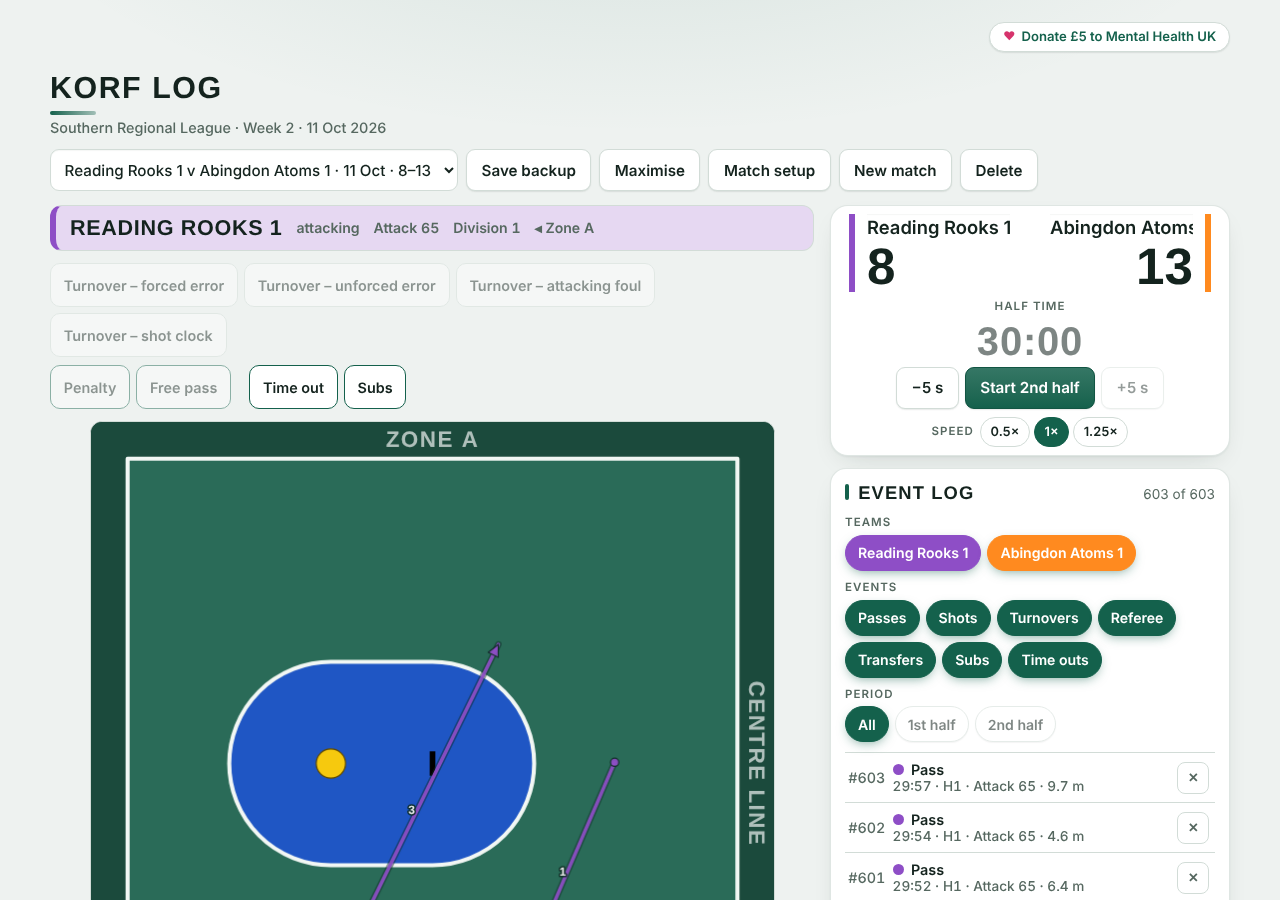
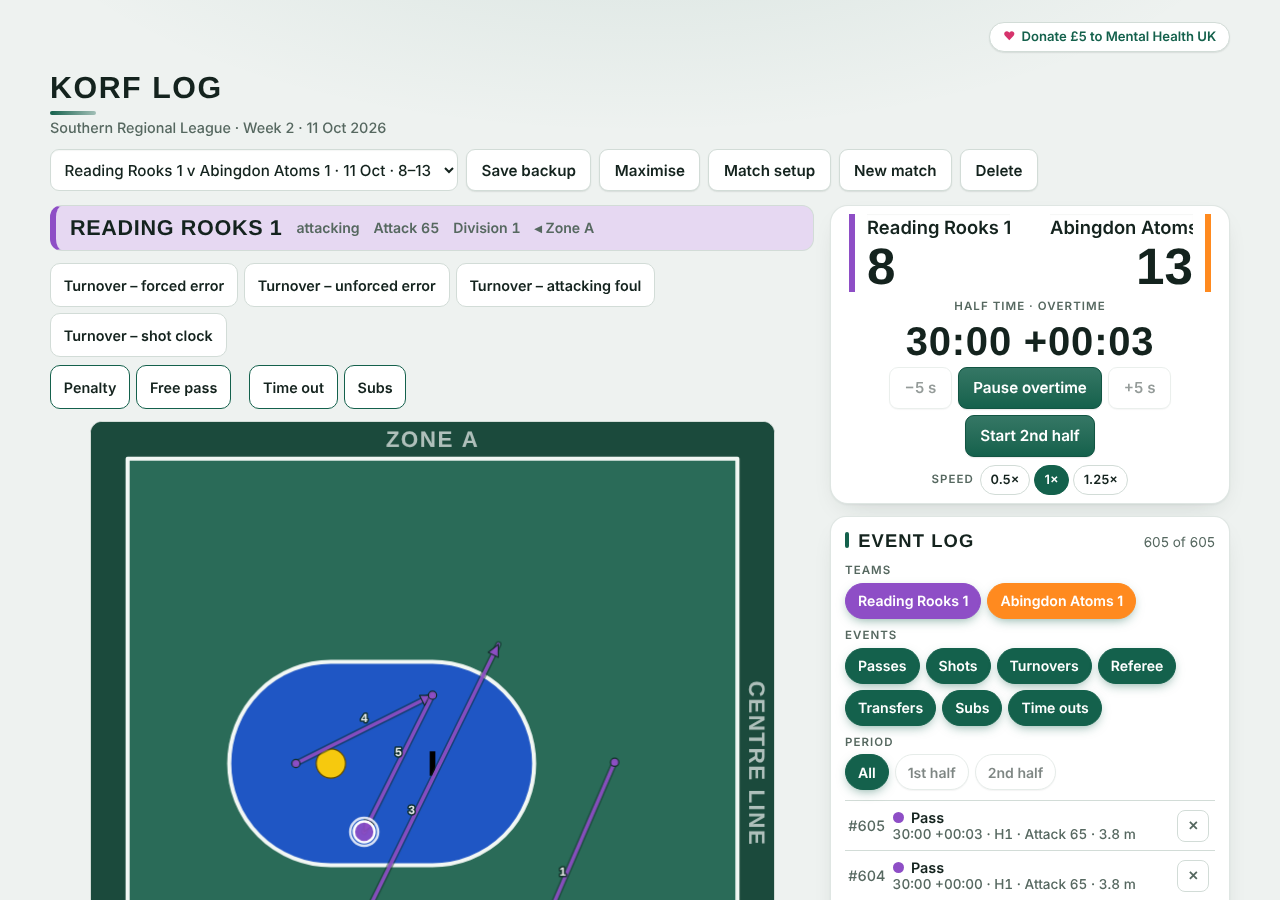
Korf Log: keep tracking at half/full time with an overtime stopwatch (30:00 +mm:ss)
Events logged after the clock stops carry an overtime offset, shown as 30:00 +mm:ss and exported in the time column plus an overtime_s column. A separate Start 2nd half button starts the next half. Also keeps the clock state across a reload. Korf Lab reads the overtime from JSON. User guide updated.

Claude-Session: https://claude.ai/code/session_01W3cJdaLfmgiywRuQjxTPUx

diff --git a/Korf Log.html b/Korf Log.html
@@ -419,6 +419,7 @@ details>summary{transition:color .16s var(--ease)}
           <button class="btn" id="clkBack" type="button" title="Go back 5 seconds. Events after that time are removed.">−5 s</button>
           <button class="btn primary" id="clkToggle" type="button" title="Start or pause the clock (Space bar)">Start</button>
           <button class="btn" id="clkFwd" type="button" title="Go forward 5 seconds">+5 s</button>
+          <button class="btn primary" id="clkNext" type="button" title="Start the next half" hidden>Start 2nd half</button>
         </div>
         <div class="cspeed" id="cspeed" role="group" aria-label="Clock speed"><span class="lbl">Speed</span><button type="button" data-spd="0.5" aria-pressed="false" title="Run the clock at half speed">0.5×</button><button type="button" data-spd="1" aria-pressed="true" title="Normal speed">1×</button><button type="button" data-spd="1.25" aria-pressed="false" title="Run the clock 25% faster">1.25×</button></div>
       </div>
@@ -786,6 +787,7 @@ function normEvent(e,cfg,i,fresh){
   var L=cfg.court.len,H=L/2,ty=e.type,t=Math.floor(Number(e.t));
   if(!isFinite(t)||t<0) t=i*10;
   var o={id:(fresh||!e.id)?uid():String(e.id),t:t,ts:Number(e.ts)||Date.now(),team:(e.team==='H'||e.team==='A')?e.team:null};
+  if(e.ot!=null&&e.ot!==''&&isFinite(Number(e.ot))&&Number(e.ot)>=0) o.ot=Math.floor(Number(e.ot));
   function xy(k1,k2){var x=Number(e[k1]),y=Number(e[k2]);if(!isFinite(x)||!isFinite(y)) return null;return [rd2(clamp(x,0,L)),rd2(clamp(y,0,H))];}
   if(ty==='pass'){
     var a=xy('x','y'),b=xy('x2','y2');if(!a||!b) return null;
@@ -896,7 +898,7 @@ function fixDb(d,fromOld){
     var evs=Array.isArray(m.events)?m.events:[];
     m.events=evs.map(function(e,i){return normEvent(e,m.config,i,false);}).filter(Boolean);
     var last=m.events.length?m.events[m.events.length-1].t:0;
-    m.clock={t:Number(m.clock&&m.clock.t)||last,running:false};
+    var oc=m.clock||{};m.clock={t:Number(oc.t)||last,running:false,speed:oc.speed,go:oc.go,ot:oc.ot};
     delete m.period;
     return m;
   });
@@ -949,29 +951,39 @@ function onCourt(m,R,team,role){
 function snap(p){return p?{id:p.id,name:p.name,no:p.no,div:p.div||null,g:p.g,sub:!!p.sub}:null;}
 function plLabel(p){return (p.no?'#'+p.no+' ':'')+p.name;}
 /* ---------- match clock ---------- */
-var clk={base:0,since:null,lastSave:0,speed:1,go:1};
+var clk={base:0,since:null,lastSave:0,speed:1,go:1,ot:0,otSince:null};
+/* Overtime: once the clock has stopped at the end of a period, tracking carries on. Events then keep the stopped time and record how many seconds of overtime had passed on a separate stopwatch (e.ot), shown as 30:00 +mm:ss. */
+function otRaw(){return clk.ot+(clk.otSince?(Date.now()-clk.otSince)/1000*clk.speed:0);}
+function otNow(){return atCap()?Math.floor(otRaw()+1e-6):undefined;}
+function evClock(e){return (e.ot!=null)?fmtClock(Math.round(e.t+1))+' +'+fmtClock(e.ot):fmtClock(e.t);}
 /* The clock never runs past the end of the period that has been started (the half, or the quarter). At that point it stops until the user starts the next period; clk.go is the number of periods started so far. */
 function capT(){var m=cur(),cfg=m&&m.config;if(!cfg) return Infinity;return periodSec(cfg)*Math.min(Math.max(clk.go,1),cfg.periods)-0.001;}
 function nowT(){return Math.min(clk.base+(clk.since?(Date.now()-clk.since)/1000*clk.speed:0),capT());}
 function atCap(){return nowT()>=capT()-1e-6;}
 function lastPeriod(){var m=cur();return clk.go>=m.config.periods;}
 function nowSec(){return Math.floor(nowT()+1e-6);}
-function loadClock(){var c=cur().clock||{t:0};clk.base=Number(c.t)||0;clk.since=null;clk.speed=[0.5,1,1.25].indexOf(Number(c.speed))>=0?Number(c.speed):1;clk.go=Math.max(Number(c.go)||1,periodOf(cur().config,Math.floor(clk.base)));}
-function persistClock(){cur().clock={t:rd2(nowT()),running:!!clk.since,speed:clk.speed,go:clk.go};save();}
-function setSpeed(v){v=Number(v);if([0.5,1,1.25].indexOf(v)<0||v===clk.speed) return;if(clk.since){clk.base=nowT();clk.since=Date.now();}clk.speed=v;persistClock();renderClock();}
+function loadClock(){var c=cur().clock||{t:0};clk.base=Number(c.t)||0;clk.since=null;clk.speed=[0.5,1,1.25].indexOf(Number(c.speed))>=0?Number(c.speed):1;clk.ot=Number(c.ot)||0;clk.otSince=null;clk.go=Math.max(Number(c.go)||1,periodOf(cur().config,Math.floor(clk.base)));}
+function persistClock(){cur().clock={t:Number(nowT().toFixed(3)),running:!!clk.since,speed:clk.speed,go:clk.go,ot:rd2(otRaw())};save();}
+function setSpeed(v){v=Number(v);if([0.5,1,1.25].indexOf(v)<0||v===clk.speed) return;if(clk.since){clk.base=nowT();clk.since=Date.now();}if(clk.otSince){clk.ot=otRaw();clk.otSince=Date.now();}clk.speed=v;persistClock();renderClock();}
 function setClock(nt){clk.base=nt;if(clk.since) clk.since=Date.now();}
-function pauseQuiet(){if(clk.since){clk.base=nowT();clk.since=null;persistClock();}}
-function toggleClock(fromKey){
+function pauseQuiet(){if(clk.since||clk.otSince){if(clk.since){clk.base=nowT();clk.since=null;}if(clk.otSince){clk.ot=otRaw();clk.otSince=null;}persistClock();}}
+function toggleClock(){
   if(atCap()){
-    /* Half time or full time: only the button starts the next period, never the space bar. */
-    if(fromKey===true||lastPeriod()) return;
-    clk.base=periodSec(cur().config)*clk.go;clk.go++;clk.since=Date.now();ui.popup=null;
-    persistClock();render();return;
+    /* Half time or full time: the button runs or pauses the overtime stopwatch. */
+    if(clk.otSince){clk.ot=otRaw();clk.otSince=null;}else clk.otSince=Date.now();
+    persistClock();renderClock();render();return;
   }
   if(clk.since){clk.base=nowT();clk.since=null;}else{clk.since=Date.now();}
   persistClock();renderClock();
 }
+/* Only this button starts the next half or quarter, never the space bar. */
+function startNextPeriod(){
+  if(!atCap()||lastPeriod()) return;
+  clk.base=periodSec(cur().config)*clk.go;clk.go++;clk.ot=0;clk.otSince=null;clk.since=Date.now();ui.popup=null;
+  persistClock();render();
+}
 function adjustClock(delta){
+  if(atCap()&&(clk.ot>0||clk.otSince)) return;
   var m=cur(),t=nowT(),nt=Math.max(0,Math.floor(t)+delta);
   var wiped=[];
   if(delta<0){
@@ -991,14 +1003,16 @@ function restoreWiped(){
   var m=cur();m.events=m.events.concat(r.events);setClock(r.t);ui.restore=null;persistClock();render();
 }
 function renderClock(){
-  var t=nowT();
-  var cfg=cur().config,cap=atCap(),last=lastPeriod();
-  $('#clock').textContent=fmtClock(cap?Math.ceil(t):t);
-  $('#clock').classList.toggle('paused',!clk.since);
-  $('#clkToggle').textContent=cap?(last?'Full time':'Start '+pBtn(cfg,clk.go+1)):(clk.since?'Pause':(t>0?'Resume':'Start'));
-  $('#clkToggle').disabled=cap&&last;
+  var t=nowT(),cfg=cur().config,cap=atCap(),last=lastPeriod(),otOn=cap&&(clk.ot>0||!!clk.otSince),o=otRaw();
+  $('#clock').textContent=fmtClock(cap?Math.ceil(t):t)+(otOn?' +'+fmtClock(o):'');
+  $('#clock').classList.toggle('paused',cap?!clk.otSince:!clk.since);
+  $('#clkToggle').textContent=cap?(clk.otSince?'Pause overtime':(clk.ot>0?'Resume overtime':'Start overtime')):(clk.since?'Pause':(t>0?'Resume':'Start'));
+  $('#clkToggle').title=cap?'Run or pause the overtime stopwatch (Space bar). Events are logged as '+fmtClock(Math.ceil(t))+' + overtime.':'Start or pause the clock (Space bar)';
+  $('#clkNext').hidden=!(cap&&!last);
+  $('#clkNext').textContent='Start '+pBtn(cfg,clk.go+1);
   $('#clkFwd').disabled=cap;
-  $('#perLabel').textContent=cap?(last?'Full time':(cfg.periods===4?'End of Q'+clk.go:'Half time')):pLong(cfg,periodOf(cfg,Math.floor(t)));
+  $('#clkBack').disabled=otOn;
+  $('#perLabel').textContent=cap?((last?'Full time':(cfg.periods===4?'End of Q'+clk.go:'Half time'))+(otOn?' · overtime':'')):pLong(cfg,periodOf(cfg,Math.floor(t)));
   var sb=document.querySelectorAll('#cspeed [data-spd]');for(var i=0;i<sb.length;i++) sb[i].setAttribute('aria-pressed',String(Number(sb[i].dataset.spd)===clk.speed));
 }
 
@@ -1007,9 +1021,9 @@ function flashMsg(t){
   ui.msg=t;clearTimeout(msgTimer);
   msgTimer=setTimeout(function(){ui.msg='';if(ui.view==='track') renderHint(cur(),ui.R);},4000);
 }
-function canAct(R){return ui.view==='track'&&!ui.popup&&!ui.review&&!atCap()&&R&&R.st.phase==='attack';}
+function canAct(R){return ui.view==='track'&&!ui.popup&&!ui.review&&R&&R.st.phase==='attack';}
 function addEvent(part,msg){
-  var m=cur(),e={id:uid(),t:nowSec(),ts:Date.now()};
+  var m=cur(),e={id:uid(),t:nowSec(),ts:Date.now(),ot:otNow()};
   for(var k in part){e[k]=part[k];}
   m.events.push(e);ui.restore=null;ui.pending=null;
   if(msg) flashMsg(msg);
@@ -1033,24 +1047,24 @@ function addPass(a,b){
 }
 function openShot(p){
   var R=ui.R,V=ui.V,m=cur(),team=R.st.team,post=postOf(m.config,V.right),lo=polar(post,V.right,p.x,p.y);
-  ui.popup={kind:R.st.fp?'freepass':'shot',team:team,x:p.x,y:p.y,r:lo.r,a:lo.a,t:nowSec(),shooter:null,fp:true,stype:null,warn:false,stage:'type'};
+  ui.popup={kind:R.st.fp?'freepass':'shot',team:team,x:p.x,y:p.y,r:lo.r,a:lo.a,t:nowSec(),shooter:null,fp:true,stype:null,warn:false,stage:'type',ot:otNow()};
   ui.popup.stype=needsType(ui.popup)?'distance':null;setStage(ui.popup);
   render();
 }
 function openPenalty(){
   var R=ui.R,V=ui.V,m=cur(),team=R.st.team,post=postOf(m.config,V.right),pt=fromPolar(post,V.right,2.5,0);
-  ui.popup={kind:'penalty',team:team,x:rd2(pt.x),y:rd2(pt.y),r:2.5,a:0,t:nowSec(),shooter:null,fp:false,stype:null,warn:false,stage:'type'};
+  ui.popup={kind:'penalty',team:team,x:rd2(pt.x),y:rd2(pt.y),r:2.5,a:0,t:nowSec(),ot:otNow(),shooter:null,fp:false,stype:null,warn:false,stage:'type'};
   setStage(ui.popup);
   render();
 }
 function openSubs(){
   var R=ui.R;if(ui.popup||ui.review||!R) return;
-  ui.popup={kind:'sub',team:R.st.team,out:null,inn:null,t:nowSec()};render();
+  ui.popup={kind:'sub',team:R.st.team,out:null,inn:null,t:nowSec(),ot:otNow()};render();
 }
 function commitSub(){
   var p=ui.popup,m=cur();if(!p||p.kind!=='sub'||!p.out||!p.inn) return;
   var o=findPerson(m,p.team,p.out),n=findPerson(m,p.team,p.inn);if(!o||!n) return;
-  var e={id:uid(),t:nowSec(),ts:Date.now(),team:p.team,type:'sub',out:snap(o),in:snap(n)};
+  var e={id:uid(),t:nowSec(),ot:otNow(),ts:Date.now(),team:p.team,type:'sub',out:snap(o),in:snap(n)};
   m.events.push(e);ui.popup=null;ui.restore=null;
   flashMsg(teamName(p.team)+': '+n.name+' on for '+o.name+'.');save();render();
 }
@@ -1060,7 +1074,7 @@ function commitShot(k,by){
   var needType=(p.kind==='shot')||(p.kind==='freepass'&&!p.fp);
   if(needType&&!p.stype){p.stage='type';p.warn=true;renderModal(m,ui.R);return;}
   var shooter=p.shooter?snap(findPerson(m,p.team,p.shooter)):null;
-  var e={id:uid(),t:p.t,ts:Date.now(),team:p.team,type:'shot',x:p.x,y:p.y,r:p.r,a:p.a,
+  var e={id:uid(),t:p.t,ot:p.ot,ts:Date.now(),team:p.team,type:'shot',x:p.x,y:p.y,r:p.r,a:p.a,
     kind:p.kind==='freepass'?(p.fp?'freepass':'shot'):p.kind,stype:needType?p.stype:null,shooter:shooter,out:{k:k}};
   if(k==='rebound'){
     e.out.by={team:by.team,pl:by.id?snap(findPerson(m,by.team,by.id)):null};
@@ -1127,16 +1141,16 @@ function catOf(e){return {pass:'pass',shot:'shot',turnover:'turnover',freepass:'
 function q(v){v=(v==null)?'':String(v);return /[",\n]/.test(v)?'"'+v.replace(/"/g,'""')+'"':v;}
 function toCSV(m){
   var R=replay(m),cfg=m.config;
-  var head=['match','league','fixture_date','fixture_week','time','seconds','period','team','attack','event','detail','player','player_no','division','gender','role','x_m','y_m','x2_m','y2_m','distance_from_post_m','angle_deg','range','shot_type','outcome','rebounder','rebounder_team','time_iso','court_length_m','match_minutes','periods','team_color','court_color','zone_color'];
+  var head=['match','league','fixture_date','fixture_week','time','seconds','period','team','attack','event','detail','player','player_no','division','gender','role','x_m','y_m','x2_m','y2_m','distance_from_post_m','angle_deg','range','shot_type','outcome','rebounder','rebounder_team','time_iso','court_length_m','match_minutes','periods','team_color','court_color','zone_color','overtime_s'];
   var name=m.home+' v '+m.away;
   var rows=m.events.map(function(e){
     var pl=e.type==='shot'?e.shooter:null,shot=e.type==='shot',o=shot?e.out:null;
     var reb=(o&&o.k==='rebound'&&o.by)?o.by:null;
     var detail=e.type==='turnover'?e.sub:(e.type==='shot'?e.kind:(e.type==='transfer'?e.res:(e.type==='sub'?plLabel(e.out)+' -> '+plLabel(e.in):'')));
-    return [name,cfg.meta.league,cfg.meta.date,cfg.meta.week,fmtClock(e.t),e.t,pLong(cfg,periodOf(cfg,e.t)),e.team?(e.team==='H'?m.home:m.away):'',R.ann[e.id]?R.ann[e.id].att:'',e.type,detail,
+    return [name,cfg.meta.league,cfg.meta.date,cfg.meta.week,evClock(e),e.t,pLong(cfg,periodOf(cfg,e.t)),e.team?(e.team==='H'?m.home:m.away):'',R.ann[e.id]?R.ann[e.id].att:'',e.type,detail,
       pl?pl.name:'',pl?pl.no:'',pl&&pl.div?pl.div:'',pl&&pl.g?pl.g:'',pl?(pl.sub?'substitute':'player'):'',
       e.x==null?'':e.x,e.y==null?'':e.y,e.x2==null?'':e.x2,e.y2==null?'':e.y2,shot?e.r:'',shot?e.a:'',shot?zoneOf(e.r):'',shot?(e.stype||''):'',
-      o?o.k:'',reb&&reb.pl?reb.pl.name:'',reb?(reb.team==='H'?m.home:m.away):'',new Date(e.ts).toISOString(),cfg.court.len,cfg.length,cfg.periods,e.team?(e.team==='H'?cfg.home.color:cfg.away.color):'',cfg.look.court,cfg.look.zone];
+      o?o.k:'',reb&&reb.pl?reb.pl.name:'',reb?(reb.team==='H'?m.home:m.away):'',new Date(e.ts).toISOString(),cfg.court.len,cfg.length,cfg.periods,e.team?(e.team==='H'?cfg.home.color:cfg.away.color):'',cfg.look.court,cfg.look.zone,e.ot==null?'':e.ot];
   });
   return [head].concat(rows).map(function(r){return r.map(q).join(',');}).join('\n');
 }
@@ -1190,7 +1204,7 @@ function csvToBackup(txt){
   var evs=[],goals=0,firstDiv={H:null,A:null},first=null;
   recs.forEach(function(o,i){
     var team=tk(o.team),t=num(o.seconds,i*10),ts=Date.parse(o.time_iso)||undefined;
-    var e={t:t,ts:ts,type:o.event,team:team};
+    var e={t:t,ts:ts,type:o.event,team:team};if(o.overtime_s!==undefined&&o.overtime_s!=='') e.ot=num(o.overtime_s,undefined);
     if(o.event!=='timeout'&&!team) return;
     if(!first&&team) first={team:team,o:o};
     if(o.event==='pass'){e.x=num(o.x_m,NaN);e.y=num(o.y_m,NaN);e.x2=num(o.x2_m,NaN);e.y2=num(o.y2_m,NaN);}
@@ -1241,7 +1255,8 @@ function parseImport(txt){
   var evs=src.events.map(function(e,i){return normEvent(e,cfg,i,true);}).filter(Boolean);
   if(!evs.length) throw new Error('No valid events found in that text.');
   var last=evs.reduce(function(a,e){return Math.max(a,e.t);},0);
-  return {id:uid(),home:cfg.home.name,away:cfg.away.name,created:Number(src.created)||Date.now(),events:evs,config:cfg,clock:{t:last,running:false}};
+  var lastEv=evs[evs.length-1],inOt=lastEv&&lastEv.ot!=null&&lastEv.t===last;
+  return {id:uid(),home:cfg.home.name,away:cfg.away.name,created:Number(src.created)||Date.now(),events:evs,config:cfg,clock:{t:inOt?last+0.999:last,running:false,ot:inOt?lastEv.ot:0}};
 }
 function updateExport(){
   if(!$('#exp').open) return;
@@ -1337,7 +1352,7 @@ function hintText(m,R){
   if(ui.msg) return ui.msg;
   var ev=m.config.events;
   if(ui.review) return 'Review mode. Press Back to live to carry on tracking.';
-  if(atCap()) return lastPeriod()?'Full time. The clock has stopped at the end of the match. Use −5 s if the time needs correcting.':(m.config.periods===4?'End of quarter '+clk.go+'. The clock is stopped.':'Half time. The clock is stopped.')+' Press Start '+pBtn(m.config,clk.go+1)+' when play restarts.';
+  if(atCap()){var tm=fmtClock(Math.ceil(nowT()));return (lastPeriod()?'Full time.':(m.config.periods===4?'End of quarter '+clk.go+'.':'Half time.'))+' The clock is stopped at '+tm+'. You can keep tracking: events are logged as '+tm+' + overtime. Use Start overtime to run the overtime stopwatch'+(lastPeriod()?'.':', and Start '+pBtn(m.config,clk.go+1)+' when play restarts.');}
   if(R.st.phase==='transfer') return 'Choose Transfer to attack once the ball is in their attacking half.';
   var parts=[];
   if(ev.pass) parts.push(chainStart()?'Click where the pass is received; that spot starts the next pass.':'Click where the ball is first held to set the start of the pass.');
@@ -1391,7 +1406,7 @@ function buildItems(m,R){
 }
 function rowHTML(m,R,e,idx){
   var n=idx[e.id],a=R.ann[e.id]?R.ann[e.id].att:'';
-  var meta=fmtClock(e.t)+' · '+pLabel(m.config,periodOf(m.config,e.t))+((e.type==='transfer'||e.type==='sub'||e.type==='timeout')?'':' · Attack '+a);
+  var meta=evClock(e)+' · '+pLabel(m.config,periodOf(m.config,e.t))+((e.type==='transfer'||e.type==='sub'||e.type==='timeout')?'':' · Attack '+a);
   var d=evDetail(m,e);if(d) meta+=' · '+d;
   var inner='<span class="n">#'+n+'</span><span class="ev"><i class="dot '+(e.team==='H'?'home':(e.team==='A'?'away':'none'))+'"></i>'+esc(evLabel(m,e))+'</span><span class="det">'+esc(meta)+'</span>';
   var sel=ui.review&&ui.review.hl===e.id;
@@ -1405,7 +1420,7 @@ function renderLastEv(m,R){
   if(!e){el.innerHTML='<span class="det">No events logged yet</span>';return;}
   var idx={};idx[e.id]=m.events.length;
   var a=R.ann[e.id]?R.ann[e.id].att:'';
-  var meta=fmtClock(e.t)+' · '+pLabel(m.config,periodOf(m.config,e.t))+((e.type==='transfer'||e.type==='sub'||e.type==='timeout')?'':' · Attack '+a);
+  var meta=evClock(e)+' · '+pLabel(m.config,periodOf(m.config,e.t))+((e.type==='transfer'||e.type==='sub'||e.type==='timeout')?'':' · Attack '+a);
   var d=evDetail(m,e);if(d) meta+=' · '+d;
   el.innerHTML='<span class="n">#'+idx[e.id]+'</span><span class="ev"><i class="dot '+(e.team==='H'?'home':(e.team==='A'?'away':'none'))+'"></i>'+esc(evLabel(m,e))+'</span><span class="det">'+esc(meta)+'</span>'+(ui.delArm===e.id?'<button type="button" class="rowdel armed" data-del="'+e.id+'" aria-label="Confirm delete of the last event">Delete?</button>':'<button type="button" class="rowdel" data-del="'+e.id+'" aria-label="Delete the last event" title="Delete this event">✕</button>');
 }
@@ -1459,7 +1474,7 @@ function renderSubModal(m,R,p){
   $('#mFp').hidden=true;
   var r=rosterOf(m,p.team),ad=attDiv(m.config,R.st,p.team);
   var o=p.out?findPerson(m,p.team,p.out):null,n=p.inn?findPerson(m,p.team,p.inn):null;
-  $('#mMeta').textContent=fmtClock(p.t)+' · pick the player coming off and the substitute coming on';
+  $('#mMeta').textContent=evClock(p)+' · pick the player coming off and the substitute coming on';
   var h='<div class="msec"><h3>Team</h3><div class="seg" role="group" aria-label="Team">'+
     ['H','A'].map(function(t){return '<button type="button" class="'+(t==='H'?'t-home':'t-away')+'" data-subteam="'+t+'" aria-pressed="'+(p.team===t)+'">'+esc(teamName(t))+'</button>';}).join('')+'</div></div>';
   h+='<div class="msec"><h3>Player coming off</h3>';
@@ -1496,13 +1511,13 @@ function renderModal(m,R){
   if(p.kind==='sub'){renderSubModal(m,R,p);return;}
   var at=p.team,df=other(at),pen=p.kind==='penalty';
   $('#mTitle').textContent=(pen?'Penalty':(p.kind==='freepass'?'Free pass shot':'Shot'))+' · '+teamName(at);
-  $('#mMeta').textContent=fmtN(p.r)+' m from the post · '+p.a+'° · '+fmtClock(p.t)+(pen?' · placed automatically, 2.5 m straight in front of the post':'');
+  $('#mMeta').textContent=fmtN(p.r)+' m from the post · '+p.a+'° · '+evClock(p)+(pen?' · placed automatically, 2.5 m straight in front of the post':'');
   $('#mFp').hidden=p.kind!=='freepass';
   $('#mFpTick').checked=!!p.fp;
   md.querySelector('.sheet').classList.add('cmp');md.querySelector('.sheet').classList.toggle('cmp2',p.stage!=='type');
   var showTypes=needsType(p),sl=onCourt(m,R,at,'att'),named=sl.people.length>0,h='';
   if(p.stage==='type'){
-    $('#mMeta').textContent=fmtN(p.r)+' m from the post · '+p.a+'° · '+fmtClock(p.t)+' · step 1 of 2';
+    $('#mMeta').textContent=fmtN(p.r)+' m from the post · '+p.a+'° · '+evClock(p)+' · step 1 of 2';
     if(showTypes){
       h+='<div class="msec"><h3>Shot type</h3><div class="typerow">'+STYPES.map(function(t,i){
         return '<button type="button" class="tile" data-stype="'+t[0]+'" aria-pressed="'+(p.stype===t[0])+'"><span class="kb">'+(i+1)+'</span> '+t[1]+'</button>';}).join('')+'</div></div>';
@@ -1515,7 +1530,7 @@ function renderModal(m,R){
     }
   }else{
     var who=p.shooter&&findPerson(m,at,p.shooter);
-    $('#mMeta').textContent=fmtN(p.r)+' m from the post · '+p.a+'° · '+fmtClock(p.t)+(p.stype&&showTypes?' · '+stypeLabel(p.stype):'')+(who?' · '+who.name:'')+' · step 2 of 2';
+    $('#mMeta').textContent=fmtN(p.r)+' m from the post · '+p.a+'° · '+evClock(p)+(p.stype&&showTypes?' · '+stypeLabel(p.stype):'')+(who?' · '+who.name:'')+' · step 2 of 2';
     h+='<div class="cols two">';
     function rebCol(team,role,label){
       var ol=onCourt(m,R,team,role),o='<div class="grouplbl">'+esc(teamName(team))+' · '+label+' rebound'+(ol.people.length?' · Division '+ol.div:'')+'</div>';
@@ -2110,6 +2125,7 @@ $('#trackView').addEventListener('click',function(e){
 $('#backLive').addEventListener('click',function(){ui.review=null;render();});
 $('#restoreBtn').addEventListener('click',restoreWiped);
 $('#clkToggle').addEventListener('click',function(){toggleClock();});
+$('#clkNext').addEventListener('click',startNextPeriod);
 $('#cspeed').addEventListener('click',function(e){var b=e.target.closest('[data-spd]');if(b) setSpeed(b.dataset.spd);});
 $('#clkBack').addEventListener('click',function(){adjustClock(-5);});
 $('#clkFwd').addEventListener('click',function(){adjustClock(5);});
@@ -2233,7 +2249,7 @@ document.addEventListener('keydown',function(e){
       e.preventDefault();if(pp.stage!=='type') return;var same=pp.stype===STYPES[ti][0];pp.stype=STYPES[ti][0];pp.warn=false;if(same||!hasShooters(cur(),ui.R,pp)) goOut();else renderModal(cur(),ui.R);return;
     }
   } else if((e.key===' '||e.code==='Space')&&!ui.review&&!document.querySelector('dialog[open]')){
-    e.preventDefault();if(!e.repeat) toggleClock(true);return;
+    e.preventDefault();if(!e.repeat) toggleClock();return;
   }
   if((e.ctrlKey||e.metaKey)&&String(e.key).toLowerCase()==='z'){e.preventDefault();undo();}
 });
@@ -2244,7 +2260,7 @@ setInterval(function(){
   renderClock();
   var p=periodOf(cur().config,nowSec());
   if(p!==ui.per){render();return;}
-  if(clk.since&&Date.now()-clk.lastSave>3000){clk.lastSave=Date.now();persistClock();}
+  if((clk.since||clk.otSince)&&Date.now()-clk.lastSave>3000){clk.lastSave=Date.now();persistClock();}
 },250);
 
 if(window.ResizeObserver){new ResizeObserver(resize).observe(canvas);}

diff --git a/Korf Lab.html b/Korf Lab.html
@@ -412,7 +412,7 @@ function jsonToCsv(txt){
   function pLong(p){return per===4?'Quarter '+p:(p===1?'1st half':'2nd half');}
   function lab(p){return (p&&p.no?'#'+p.no+' ':'')+(p?p.name:'');}
   var att={H:0,A:0},cur=startTeam;att[startTeam]=1;
-  var head=['match','league','fixture_date','fixture_week','time','seconds','period','team','attack','event','detail','player','player_no','division','gender','role','x_m','y_m','x2_m','y2_m','distance_from_post_m','angle_deg','range','shot_type','outcome','rebounder','rebounder_team','time_iso','court_length_m','match_minutes','periods','team_color','court_color','zone_color'];
+  var head=['match','league','fixture_date','fixture_week','time','seconds','period','team','attack','event','detail','player','player_no','division','gender','role','x_m','y_m','x2_m','y2_m','distance_from_post_m','angle_deg','range','shot_type','outcome','rebounder','rebounder_team','time_iso','court_length_m','match_minutes','periods','team_color','court_color','zone_color','overtime_s'];
   var name=hn+' v '+an,origin=null,rows=[];
   m.events.forEach(function(e){
     var a=att[e.team];
@@ -421,10 +421,10 @@ function jsonToCsv(txt){
     var tn=e.team==='H'?hn:(e.team==='A'?an:'');
     var t=Number(e.t)||0,r=Number(e.r),zone=!shot||!isFinite(r)?'':(r<=2.5?'close':(r<=5?'mid':'long'));
     var ts=new Date(Number(e.ts)||Date.now());
-    rows.push([name,meta.league||'',meta.date||'',meta.week||'',clock(t),t,pOf(t)&&pLong(pOf(t)),tn,a==null?'':a,e.type,detail,
+    rows.push([name,meta.league||'',meta.date||'',meta.week||'',e.ot!=null?clock(t+1)+' +'+clock(e.ot):clock(t),t,pOf(t)&&pLong(pOf(t)),tn,a==null?'':a,e.type,detail,
       pl?pl.name:'',pl?pl.no:'',pl&&pl.div?pl.div:'',pl&&pl.g?pl.g:'',pl?(pl.sub?'substitute':'player'):'',
       e.x==null?'':e.x,e.y==null?'':e.y,e.x2==null?'':e.x2,e.y2==null?'':e.y2,shot&&e.r!=null?e.r:'',shot&&e.a!=null?e.a:'',zone,shot?(e.stype||''):'',
-      o?o.k:'',reb&&reb.pl?reb.pl.name:'',reb?(reb.team==='H'?hn:an):'',isNaN(ts.getTime())?'':ts.toISOString(),L,len,per,e.team==='H'?hc:(e.team==='A'?ac:''),look.court||'',look.zone||'']);
+      o?o.k:'',reb&&reb.pl?reb.pl.name:'',reb?(reb.team==='H'?hn:an):'',isNaN(ts.getTime())?'':ts.toISOString(),L,len,per,e.team==='H'?hc:(e.team==='A'?ac:''),look.court||'',look.zone||'',e.ot!=null?e.ot:'']);
     var oth=function(x){return x==='H'?'A':'H';};
     if(e.type==='turnover'){origin=e.team;cur=oth(e.team);}
     else if(shot){

diff --git a/docs/Korf-Log-user-guide.md b/docs/Korf-Log-user-guide.md
@@ -16,7 +16,7 @@ Korf Log records a korfball match as it is played, one click at a time, and expo
 
 | To log | Do this |
 | --- | --- |
-| Clock | Start or pause with the clock button or the space bar. The −5 s and +5 s buttons correct the time. Under them, the Speed buttons run the clock at 0.5× (slower), 1× (normal) or 1.25× (faster). The speed is saved with the match. The clock stops at the end of each half (30:00 in a 60-minute match) and shows Half time: the court is locked and the clock button becomes Start 2nd half. Press that button when play restarts; the space bar does not start the next half. At full time the clock stops for good (use −5 s if the time needs correcting). |
+| Clock | Start or pause with the clock button or the space bar. The −5 s and +5 s buttons correct the time. Under them, the Speed buttons run the clock at 0.5× (slower), 1× (normal) or 1.25× (faster). The speed is saved with the match. The clock stops at the end of each half (30:00 in a 60-minute match) and shows Half time. The clock button becomes Start overtime, and a separate Start 2nd half button starts the next half (the space bar never does). You can keep tracking while the clock is stopped, in case the referee allows extra time: press Start overtime to run an overtime stopwatch, and events are logged as 30:00 +mm:ss (60:00 +mm:ss at full time). Once overtime has started, the −5 s and +5 s buttons are disabled. At full time the clock stops for good. |
 | Passes | Click the court for the start of the first pass. Each next click ends one pass and starts the next. |
 | Shot | Double-click where it was taken. **Step 1:** pick the shot type (Distance shot is pre-selected; press 1 for Distance shot or 2 for Runner) and, if names are logged, the shooter. Click the selected type again, or press Enter, to continue with the shooter unknown. **Step 2:** Goal, a rebound, Ball out, or Defended shot. Attack options sit in the left column, defence in the right. |
 | Other events | Penalty, Free pass, turnover tiles, Time out and Subs sit above the court. |
@@ -28,14 +28,14 @@ Korf Log records a korfball match as it is played, one click at a time, and expo
 
 ![Figure 4. Shot popup, step 2: attack outcomes and four rebounders on the left, defence on the right, in team colours.](images/log-4.png)
 
-![Figure 5. Half time: the clock stops at 30:00 and waits for Start 2nd half.](images/log-5.png)
+![Figure 5. Half time with overtime running: the clock reads 30:00 +00:03, events are logged as 30:00 +mm:ss, and Start 2nd half starts the next half.](images/log-5.png)
 
 Team colours fill each team's buttons. Where names are logged, player buttons get a coloured border instead.
 
 ## 3. Save, resume and export
 
 - Matches are kept in your browser, so you can stop and finish a match later. **Save backup** downloads a file you can import again. To carry on a saved match, open **New match** and use **Continue a saved match** at the top of the setup page: choose the backup file (.json or .csv) and tracking opens with the clock where it stopped. The Import box under the event log does the same.
-- **Export** gives the event log as CSV or JSON. Choose the format, then read it in the box, copy it, or save it as a file with the button beside the choice (Save CSV file or Save backup file). Korf Log and Korf Lab both read JSON and CSV. A JSON backup is exact; a CSV rebuilds the match from its events, so players who never shot, collected a rebound or were named in a substitution are missing from the player buttons. Both formats record the team, court and circle colours, so Korf Lab can use them.
+- **Export** gives the event log as CSV or JSON. Choose the format, then read it in the box, copy it, or save it as a file with the button beside the choice (Save CSV file or Save backup file). Korf Log and Korf Lab both read JSON and CSV. A JSON backup is exact; a CSV rebuilds the match from its events, so players who never shot, collected a rebound or were named in a substitution are missing from the player buttons. Both formats record the team, court and circle colours, so Korf Lab can use them. Events logged in overtime show as 30:00 +mm:ss in the time column; the overtime seconds are in an extra overtime_s column.
 - **Maximise** hides everything except the clock and speed buttons, score, tracking buttons, a one-line log of the last event (with a delete button) and the court. **Match setup** edits the current match. **New match** starts another, keeping the teams and colours.
 
 *Korf Log is created by Eric Van Looy.*
